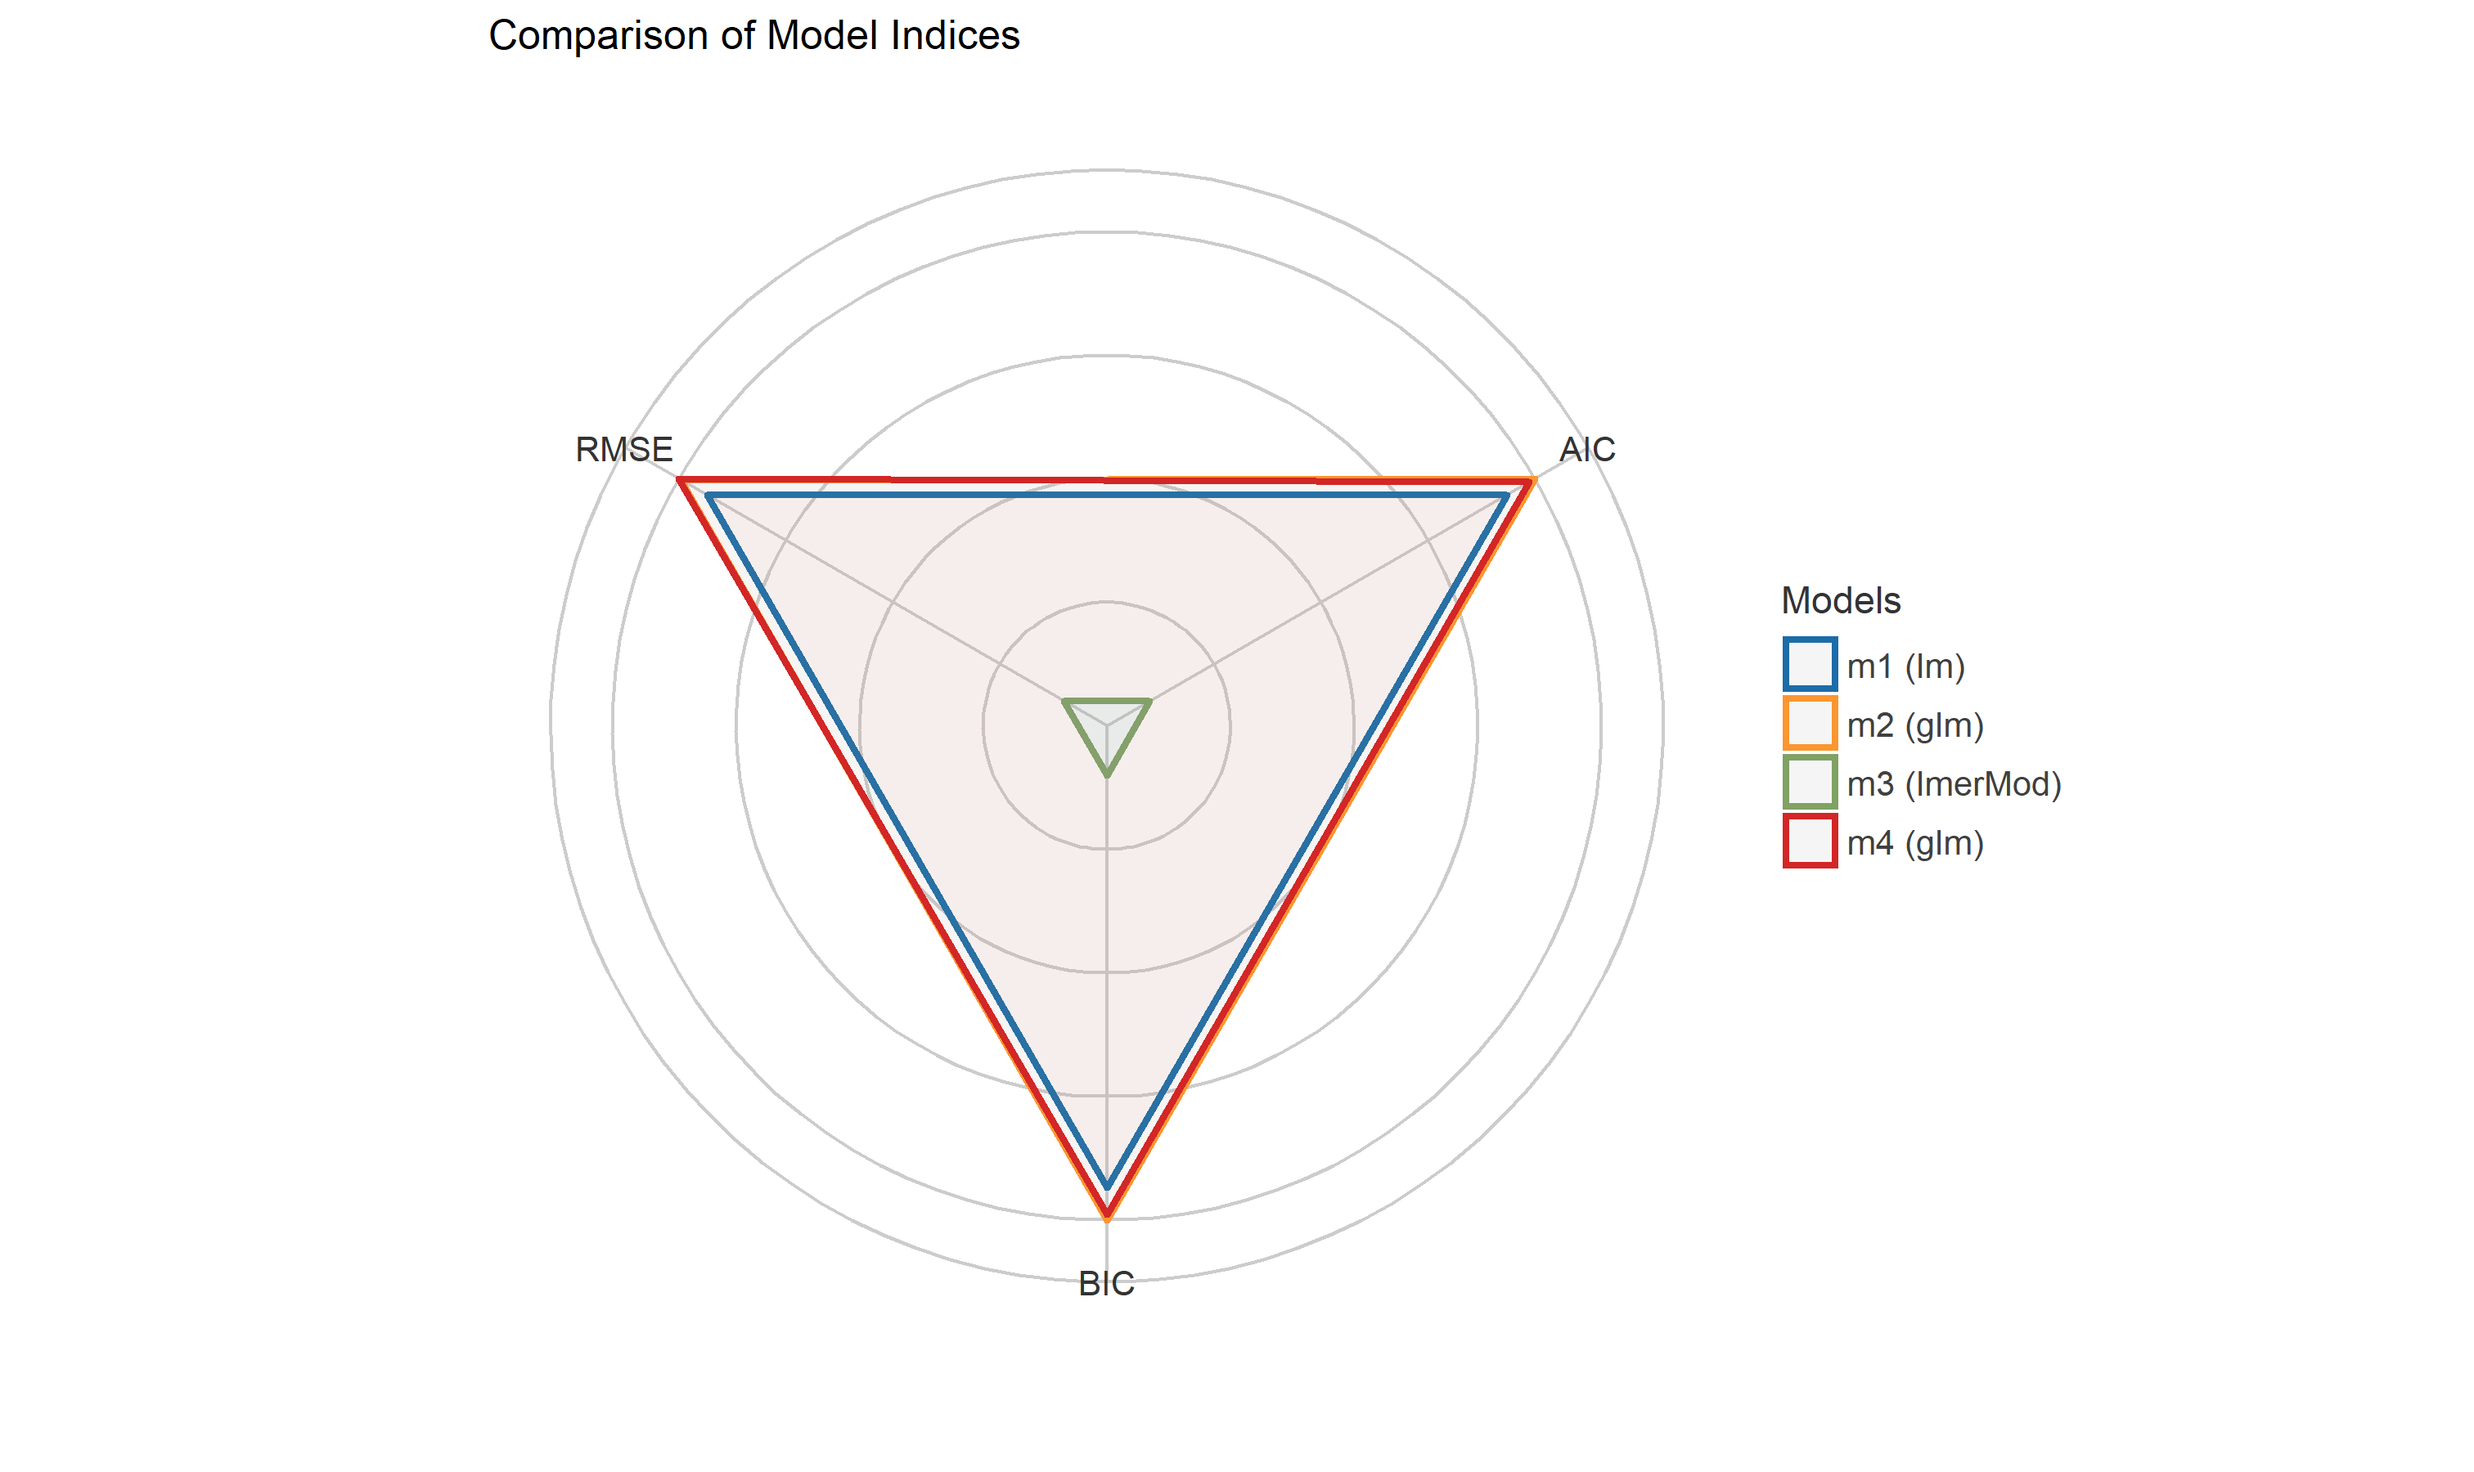
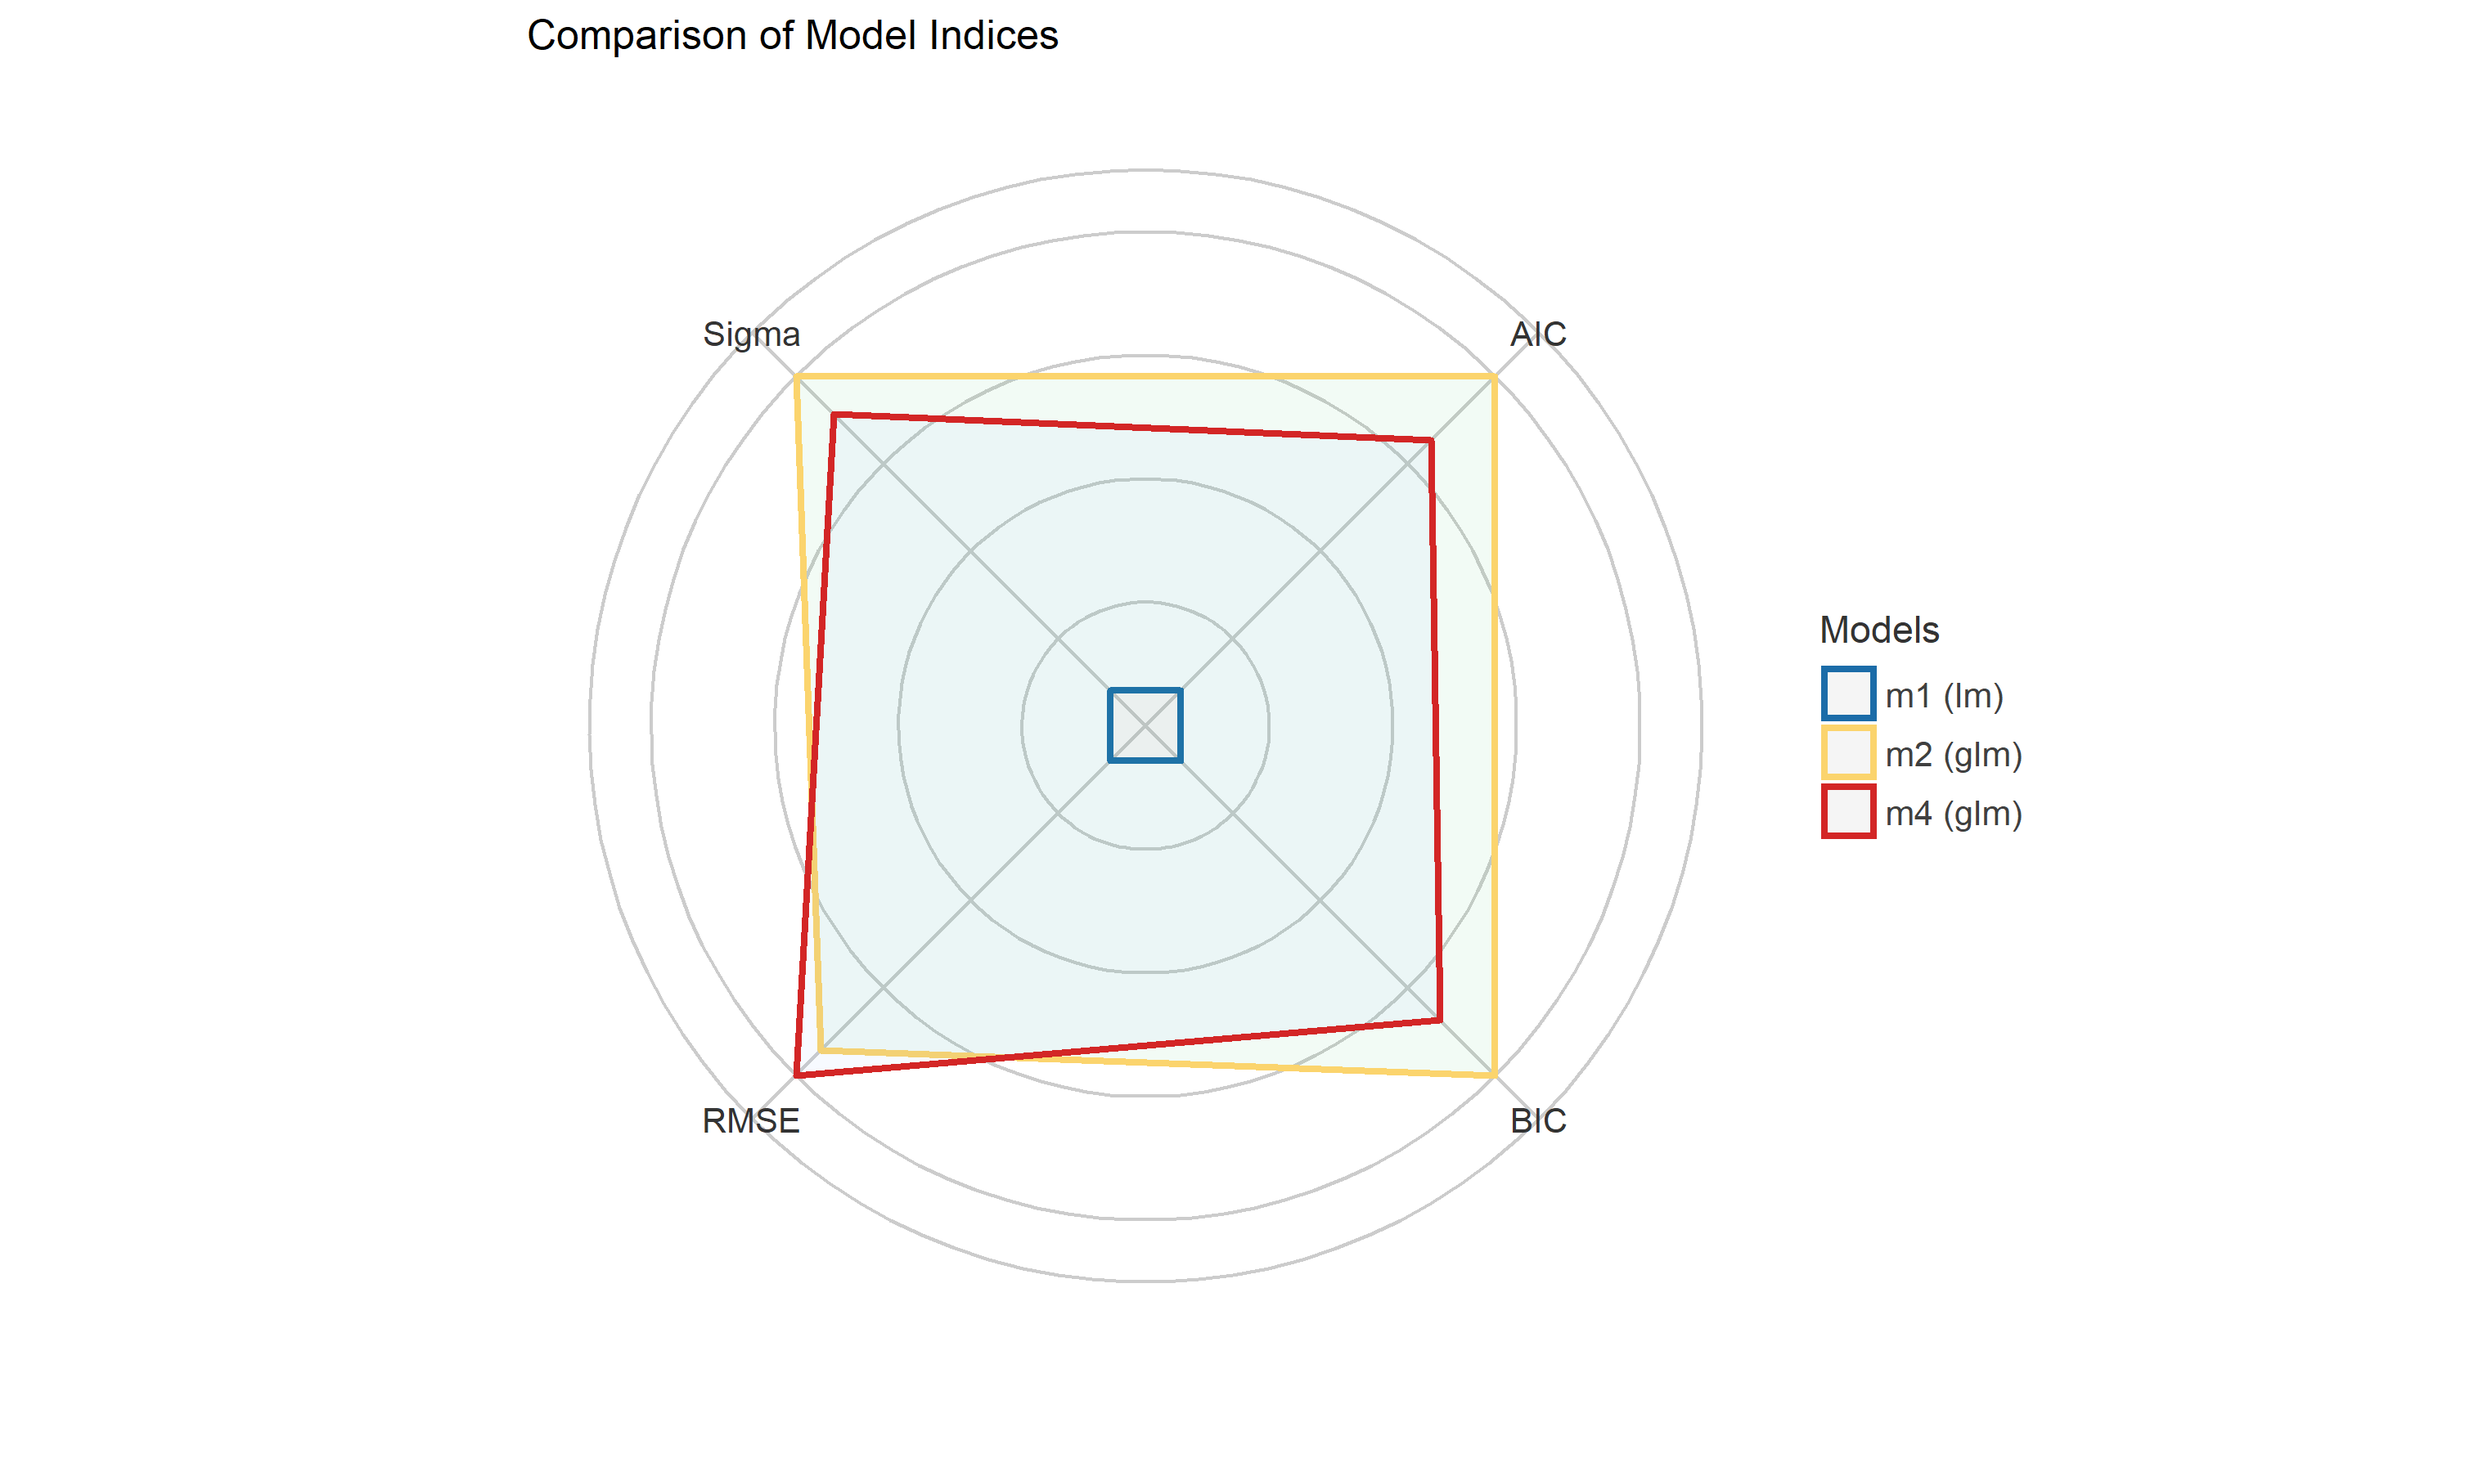
update readme

diff --git a/README.md b/README.md
@@ -89,8 +89,8 @@ model <- stan_glmer(Petal.Length ~ Petal.Width + (1 | Species), data = iris, cor
 r2(model)
 #> # Bayesian R2 with Standard Error
 #> 
-#>   Conditional R2: 0.953 [0.005]
-#>      Marginal R2: 0.824 [0.045]
+#>   Conditional R2: 0.953 (89% CI [0.944, 0.962])
+#>      Marginal R2: 0.826 (89% CI [0.750, 0.889])
 
 library(lme4)
 model <- lmer(Reaction ~ Days + (1 + Days | Subject), data = sleepstudy)
@@ -108,7 +108,7 @@ variance and can be interpreted as “the proportion of the variance
 explained by the grouping structure in the population” (Hox 2010).
 
 `icc()` calculates the ICC for various mixed model objects, including
-`stanreg` models.
+`stanreg` models…
 
 ``` r
 library(lme4)
@@ -120,9 +120,7 @@ icc(model)
 #>   Conditional ICC: 0.521
 ```
 
-For models of class `brmsfit`, an ICC based on variance decomposition is
-returned (for details, see the
-[documentation](https://easystats.github.io/performance/reference/icc.html)).
+…and models of class `brmsfit`.
 
 ``` r
 library(brms)
@@ -248,9 +246,9 @@ m1 <- lm(mpg ~ wt + cyl, data = mtcars)
 model_performance(m1)
 #> # Indices of model performance
 #> 
-#>    AIC |    BIC |   R2 | R2_adjusted | RMSE
-#> -------------------------------------------
-#> 156.01 | 161.87 | 0.83 |        0.82 | 2.44
+#>    AIC |    BIC |   R2 | R2_adjusted | RMSE | Sigma
+#> ---------------------------------------------------
+#> 156.01 | 161.87 | 0.83 |        0.82 | 2.44 |  2.57
 ```
 
 ### Logistic regression
@@ -260,9 +258,9 @@ m2 <- glm(vs ~ wt + mpg, data = mtcars, family = "binomial")
 model_performance(m2)
 #> # Indices of model performance
 #> 
-#>   AIC |   BIC | R2_Tjur | RMSE | LOGLOSS | SCORE_LOG | SCORE_SPHERICAL |  PCP
-#> -----------------------------------------------------------------------------
-#> 31.30 | 35.70 |    0.48 | 0.89 |    0.40 |    -14.90 |            0.10 | 0.74
+#>   AIC |   BIC | R2_Tjur | RMSE | Sigma | Log_loss | Score_log | Score_spherical |  PCP
+#> --------------------------------------------------------------------------------------
+#> 31.30 | 35.70 |    0.48 | 0.89 |  0.93 |     0.40 |    -14.90 |            0.10 | 0.74
 ```
 
 ### Linear mixed model
@@ -273,9 +271,9 @@ m3 <- lmer(Reaction ~ Days + (1 + Days | Subject), data = sleepstudy)
 model_performance(m3)
 #> # Indices of model performance
 #> 
-#>     AIC |     BIC | R2_conditional | R2_marginal |  ICC |  RMSE
-#> ---------------------------------------------------------------
-#> 1755.63 | 1774.79 |           0.80 |        0.28 | 0.72 | 23.44
+#>     AIC |     BIC | R2_conditional | R2_marginal |  ICC |  RMSE | Sigma
+#> -----------------------------------------------------------------------
+#> 1755.63 | 1774.79 |           0.80 |        0.28 | 0.72 | 23.44 | 25.59
 ```
 
 ## Models comparison
@@ -293,12 +291,12 @@ m4 <- glm(counts ~ outcome + treatment, family = poisson())
 compare_performance(m1, m2, m3, m4)
 #> # Comparison of Model Performance Indices
 #> 
-#> Model |    Type |     AIC |     BIC |  RMSE | SCORE_LOG | SCORE_SPHERICAL |   R2 | R2_adjusted | R2_Tjur | LOGLOSS |  PCP | R2_conditional | R2_marginal |  ICC | R2_Nagelkerke
-#> -------------------------------------------------------------------------------------------------------------------------------------------------------------------------------
-#> m1    |      lm |  156.01 |  161.87 |  2.44 |           |                 | 0.83 |        0.82 |         |         |      |                |             |      |              
-#> m2    |     glm |   31.30 |   35.70 |  0.89 |    -14.90 |            0.10 |      |             |    0.48 |    0.40 | 0.74 |                |             |      |              
-#> m3    | lmerMod | 1755.63 | 1774.79 | 23.44 |           |                 |      |             |         |         |      |           0.80 |        0.28 | 0.72 |              
-#> m4    |     glm |   56.76 |   57.75 |  0.76 |     -2.60 |            0.32 |      |             |         |         |      |                |             |      |          0.66
+#> Model |    Type |     AIC |     BIC |  RMSE | Sigma | Score_log | Score_spherical |   R2 | R2_adjusted | R2_Tjur | Log_loss |  PCP | R2_conditional | R2_marginal |  ICC | R2_Nagelkerke
+#> ----------------------------------------------------------------------------------------------------------------------------------------------------------------------------------------
+#> m1    |      lm |  156.01 |  161.87 |  2.44 |  2.57 |           |                 | 0.83 |        0.82 |         |          |      |                |             |      |              
+#> m2    |     glm |   31.30 |   35.70 |  0.89 |  0.93 |    -14.90 |            0.10 |      |             |    0.48 |     0.40 | 0.74 |                |             |      |              
+#> m3    | lmerMod | 1755.63 | 1774.79 | 23.44 | 25.59 |           |                 |      |             |         |          |      |           0.80 |        0.28 | 0.72 |              
+#> m4    |     glm |   56.76 |   57.75 |  0.76 |  1.13 |     -2.60 |            0.32 |      |             |         |          |      |                |             |      |          0.66
 ```
 
 ### General index of model performance
@@ -311,14 +309,14 @@ of model performance and sort the models from the best one to the worse.
 compare_performance(m1, m2, m3, m4, rank = TRUE)
 #> # Comparison of Model Performance Indices
 #> 
-#> Model |    Type |     AIC |     BIC |  RMSE | Performance_Score
-#> ---------------------------------------------------------------
-#> m2    |     glm |   31.30 |   35.70 |  0.89 |            99.80%
-#> m4    |     glm |   56.76 |   57.75 |  0.76 |            99.09%
-#> m1    |      lm |  156.01 |  161.87 |  2.44 |            92.69%
-#> m3    | lmerMod | 1755.63 | 1774.79 | 23.44 |             0.00%
+#> Model |    Type |     AIC |     BIC |  RMSE | Sigma | Performance_Score
+#> -----------------------------------------------------------------------
+#> m2    |     glm |   31.30 |   35.70 |  0.89 |  0.93 |            99.85%
+#> m4    |     glm |   56.76 |   57.75 |  0.76 |  1.13 |            99.11%
+#> m1    |      lm |  156.01 |  161.87 |  2.44 |  2.57 |            92.86%
+#> m3    | lmerMod | 1755.63 | 1774.79 | 23.44 | 25.59 |             0.00%
 #> 
-#> Model m2 (of class glm) performed best with an overall performance score of 99.80%.
+#> Model m2 (of class glm) performed best with an overall performance score of 99.85%.
 ```
 
 ### Visualisation of indices of models’ performance
@@ -327,7 +325,7 @@ Finally, we provide convenient visualisation (the `see` package must be
 installed).
 
 ``` r
-plot(compare_performance(m1, m2, m3, m4, rank = TRUE))
+plot(compare_performance(m1, m2, m4, rank = TRUE))
 ```
 
 ![](man/figures/unnamed-chunk-19-1.png)<!-- -->
@@ -347,16 +345,16 @@ m3 <- lm(Sepal.Length ~ Petal.Length * Petal.Width, data = iris)
 compare_performance(m1, m2, m3)
 #> # Comparison of Model Performance Indices
 #> 
-#> Model | Type |    AIC |    BIC |   R2 | R2_adjusted | RMSE |       BF
-#> ---------------------------------------------------------------------
-#> m1    |   lm | 160.04 | 169.07 | 0.76 |        0.76 | 0.40 |         
-#> m2    |   lm | 158.05 | 170.09 | 0.77 |        0.76 | 0.40 |     0.60
-#> m3    |   lm | 130.69 | 145.75 | 0.81 |        0.80 | 0.36 | 1.16e+05
+#> Model | Type |    AIC |    BIC |   R2 | R2_adjusted | RMSE | Sigma |         BF
+#> -------------------------------------------------------------------------------
+#> m1    |   lm | 160.04 | 169.07 | 0.76 |        0.76 | 0.40 |  0.41 |  BF = 1.00
+#> m2    |   lm | 158.05 | 170.09 | 0.77 |        0.76 | 0.40 |  0.40 | BF = 0.601
+#> m3    |   lm | 130.69 | 145.75 | 0.81 |        0.80 | 0.36 |  0.37 |  BF > 1000
 ```
 
 # References
 
-<div id="refs" class="references">
+<div id="refs" class="references hanging-indent">
 
 <div id="ref-gelman_data_2007">
 
